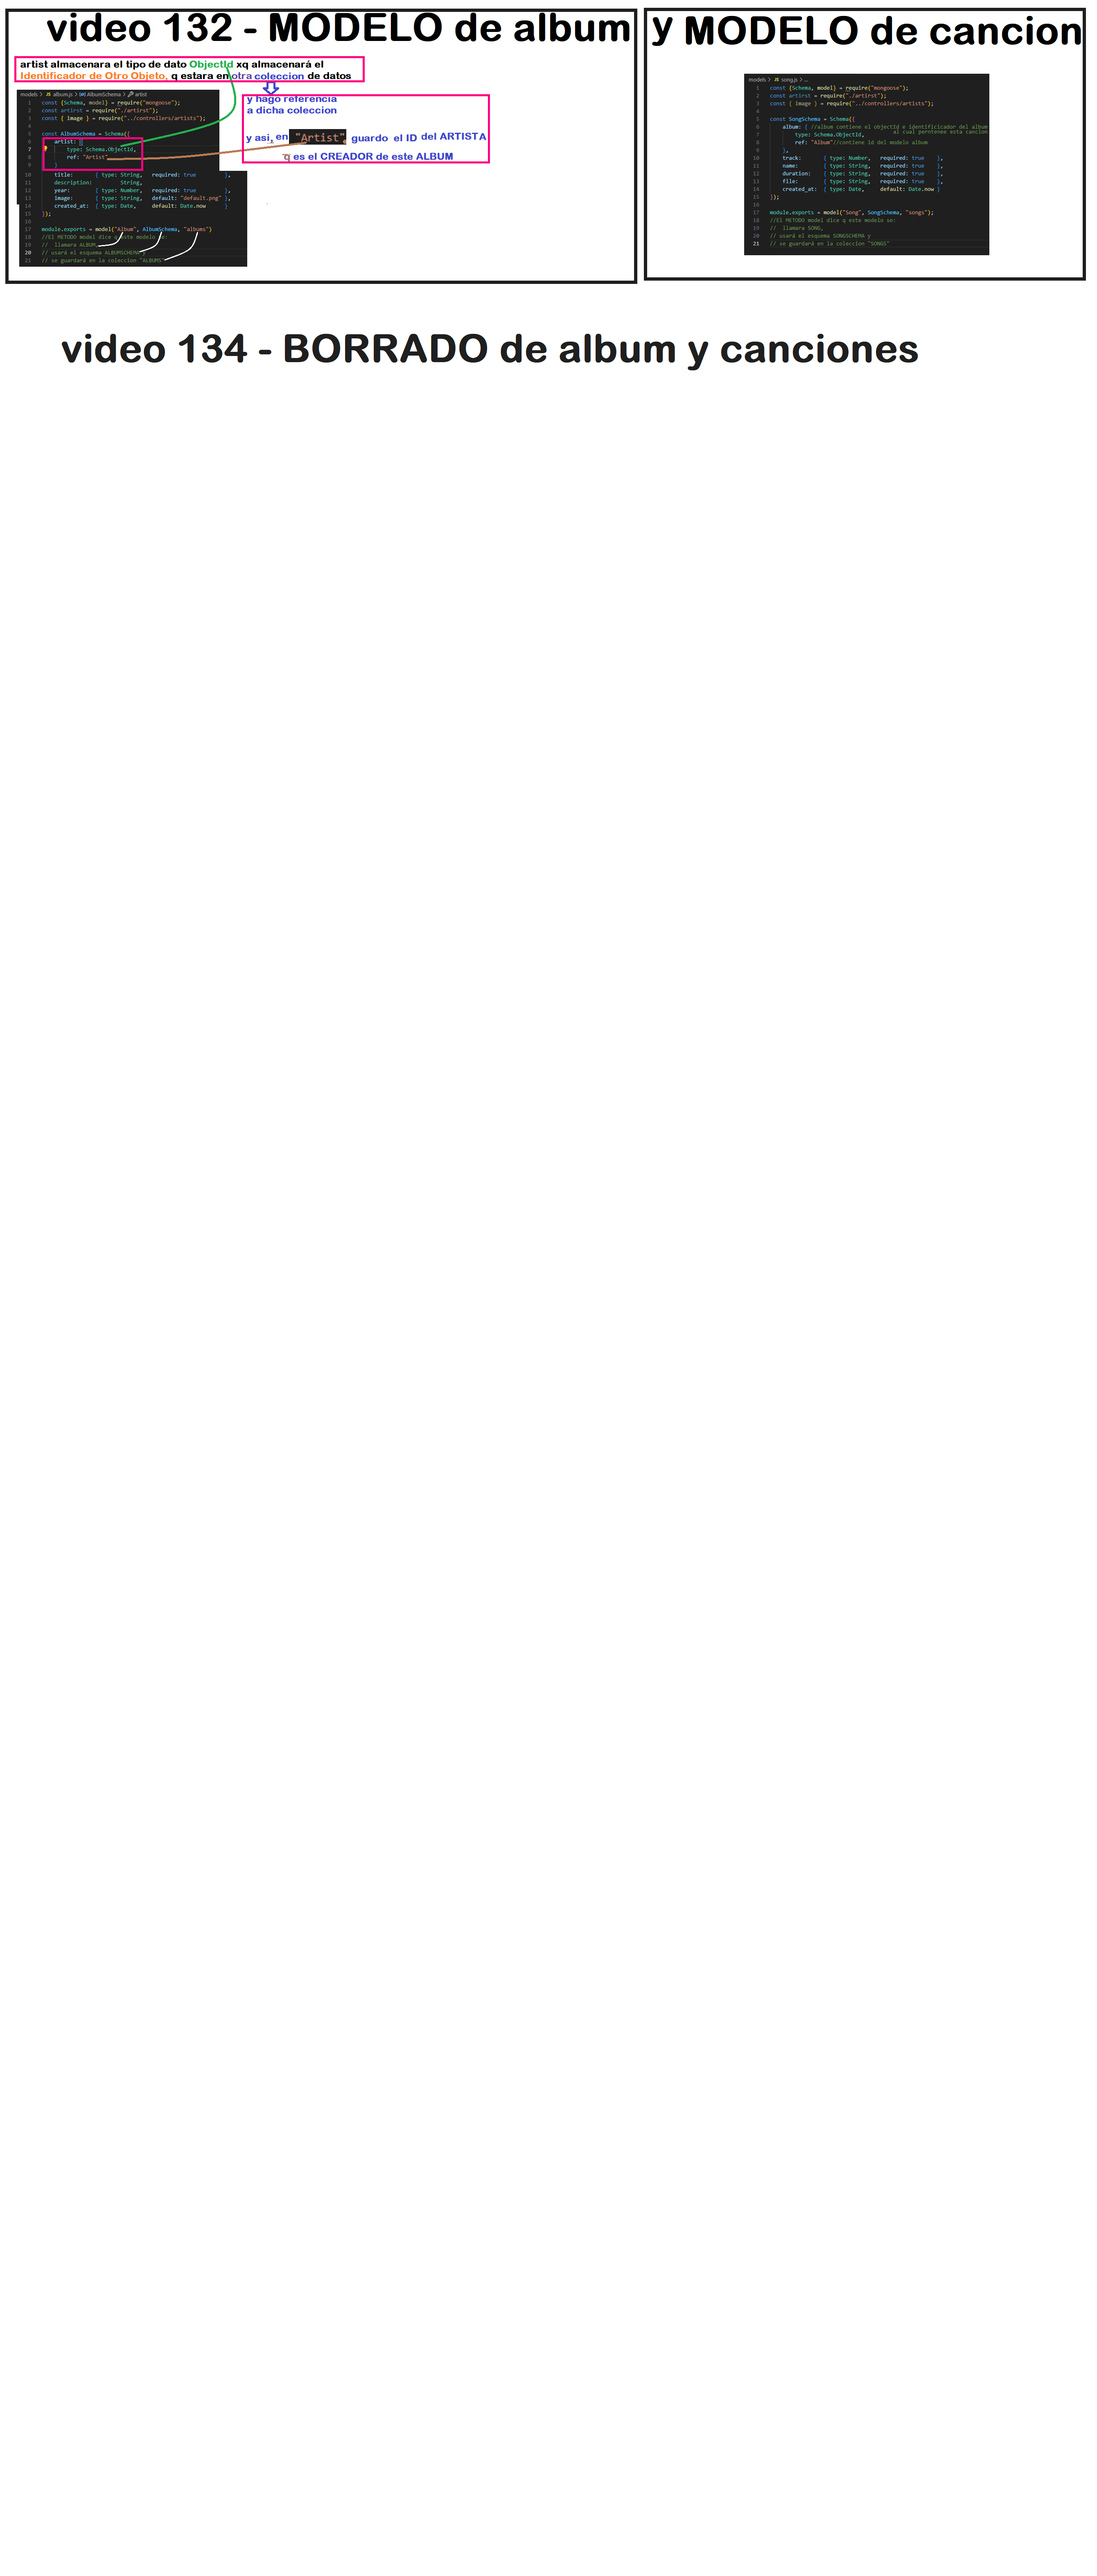
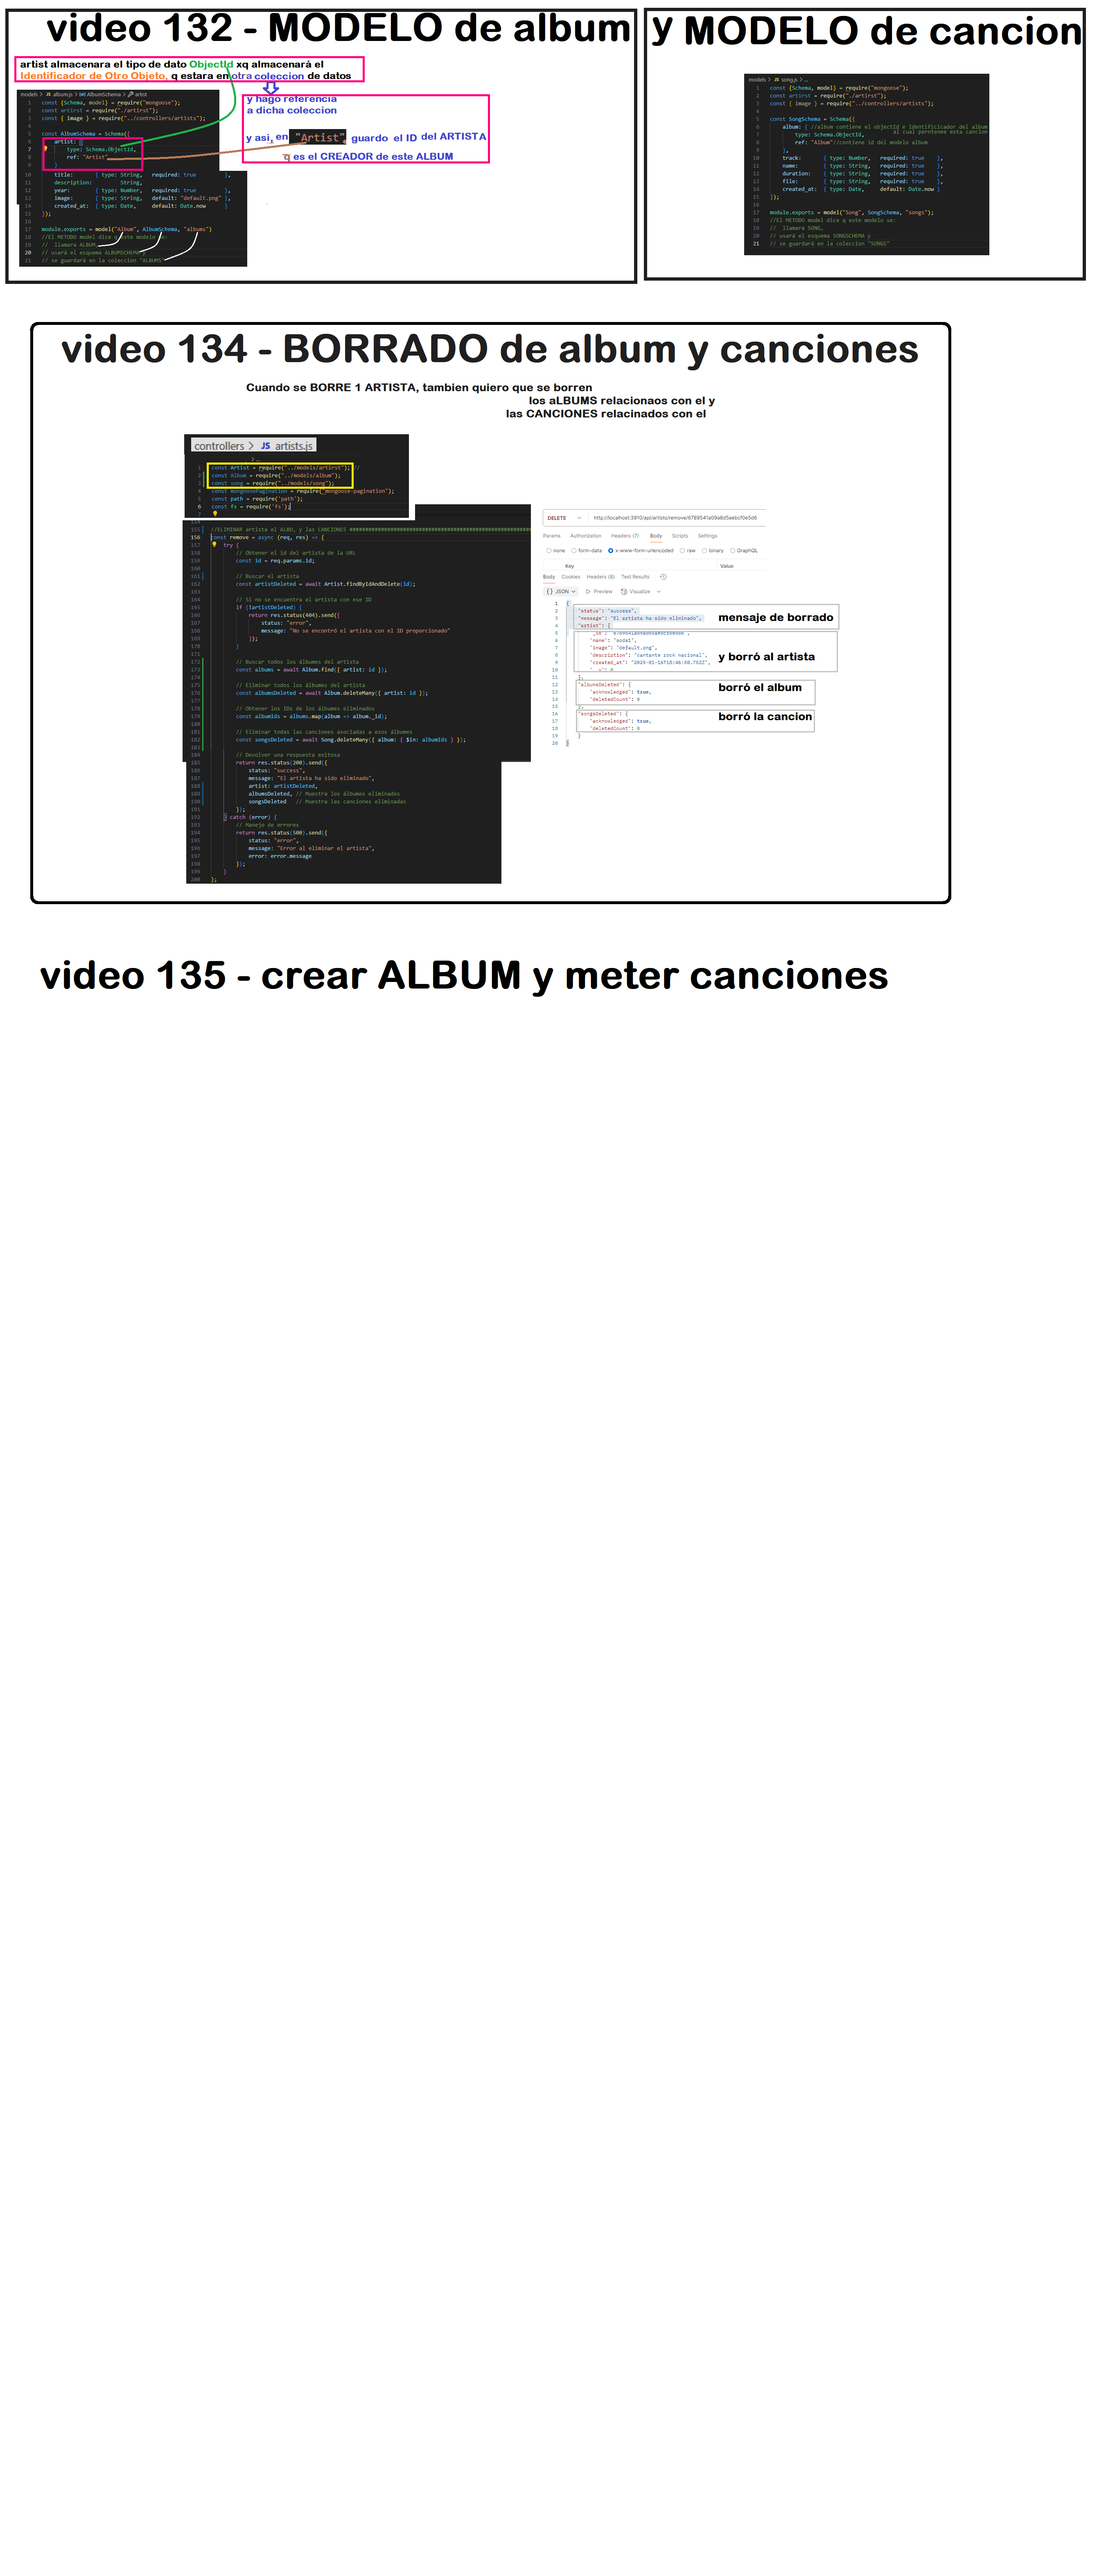
27° V.134 BORRADO de album y canciones2

diff --git a/controllers/artists.js b/controllers/artists.js
@@ -1,4 +1,7 @@
 const Artist = require("../models/artirst"); // Nota que corrigí el nombre de 'artirst' a 'artist'
+const Album = require("../models/album"); 
+const Song = require("../models/song");  // Ajusta la ruta si es necesario
+
 const mongoosePagination = require("mongoose-pagination");
 const path = require('path');
 const fs = require('fs');
@@ -149,13 +152,13 @@ const update = async (req, res) => {
 
 
 
-//ELIMINAR artista-----------------------------------------------------------
+//ELIMINAR artista el ALBU, y las CANCIONES #####################################################################################################################
 const remove = async (req, res) => {
     try {
         // Obtener el id del artista de la URL
         const id = req.params.id;
 
-        // Buscar y eliminar el artista con el ID proporcionado
+        // Buscar el artista
         const artistDeleted = await Artist.findByIdAndDelete(id);
 
         // Si no se encuentra el artista con ese ID
@@ -166,11 +169,25 @@ const remove = async (req, res) => {
             });
         }
 
+        // Buscar todos los álbumes del artista
+        const albums = await Album.find({ artist: id });
+
+        // Eliminar todos los álbumes del artista
+        const albumsDeleted = await Album.deleteMany({ artist: id });
+
+        // Obtener los IDs de los álbumes eliminados
+        const albumIds = albums.map(album => album._id);
+
+        // Eliminar todas las canciones asociadas a esos álbumes
+        const songsDeleted = await Song.deleteMany({ album: { $in: albumIds } });
+
         // Devolver una respuesta exitosa
         return res.status(200).send({
             status: "success",
             message: "El artista ha sido eliminado",
-            artist: artistDeleted
+            artist: artistDeleted,
+            albumsDeleted, // Muestra los álbumes eliminados
+            songsDeleted   // Muestra las canciones eliminadas
         });
     } catch (error) {
         // Manejo de errores
@@ -181,6 +198,10 @@ const remove = async (req, res) => {
         });
     }
 };
+
+
+
+
 
 
 // Método de RUTA y SUBIR avatar #####################################################################################################################
